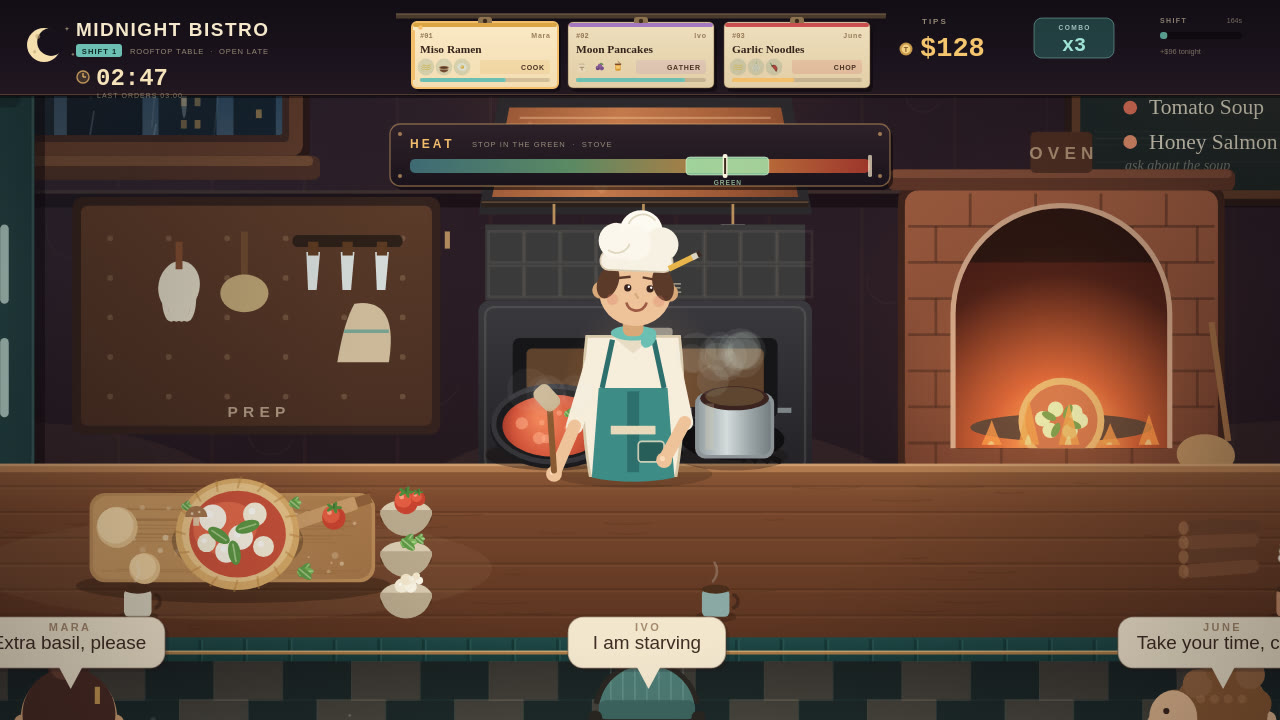
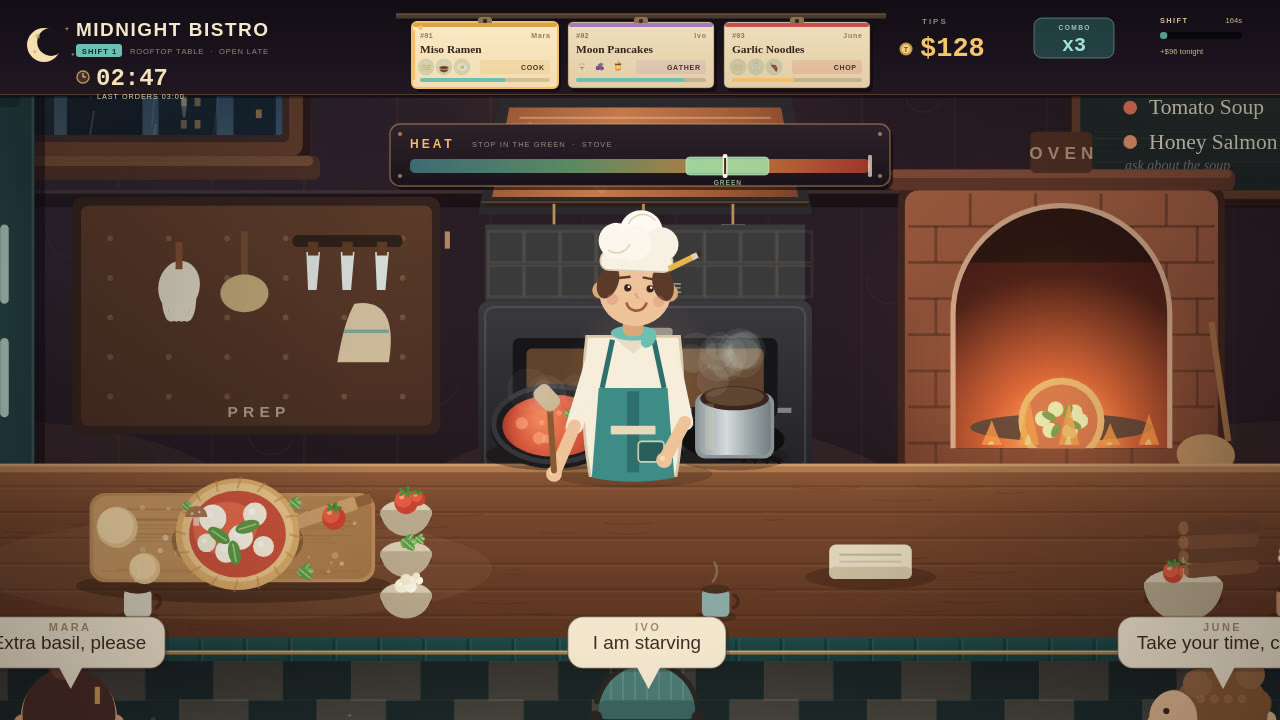
Polish the cover and HUD: garnish pose, lit pass, counter props

diff --git a/game/src/render.js b/game/src/render.js
@@ -1088,6 +1088,40 @@ function drawToppingBowl(ctx, x, y, ingredient) {
   if (ingredient === 'basil') drawIngredient(ctx, ingredient, x + 7, y - 5, 5);
 }
 
+function drawCounterProps(ctx, game) {
+  // a folded service towel and a bowl of tomatoes keep the long counter from reading as dead space
+  ctx.save();
+  ctx.fillStyle = 'rgba(24,13,9,0.25)';
+  ctx.beginPath();
+  ctx.ellipse(762, 517, 38, 7, 0, 0, Math.PI * 2);
+  ctx.fill();
+  ctx.fillStyle = '#ded2b8';
+  rr(ctx, 738, 498, 48, 20, 4);
+  ctx.fill();
+  ctx.fillStyle = '#c6b99c';
+  rr(ctx, 738, 511, 48, 7, 3);
+  ctx.fill();
+  line(ctx, 744, 504, 780, 504, withAlpha('#8f856d', 0.5), 1.2);
+  line(ctx, 744, 508, 780, 508, withAlpha('#8f856d', 0.35), 1);
+
+  ctx.fillStyle = 'rgba(30,16,10,0.28)';
+  ctx.beginPath();
+  ctx.ellipse(944, 530, 23, 6, 0, 0, Math.PI * 2);
+  ctx.fill();
+  ctx.fillStyle = '#d9cbb0';
+  ctx.beginPath();
+  ctx.ellipse(944, 522, 23, 10, 0, 0, Math.PI * 2);
+  ctx.fill();
+  ctx.fillStyle = '#b9a98c';
+  ctx.beginPath();
+  ctx.arc(944, 520, 23, 0, Math.PI);
+  ctx.fill();
+  drawIngredient(ctx, 'tomato', 938, 514, 7);
+  drawIngredient(ctx, 'tomato', 950, 512, 6);
+  drawIngredient(ctx, 'basil', 945, 507, 5);
+  ctx.restore();
+}
+
 function drawStoveTop(ctx, game) {
   const t = game.time;
   // burner grates
@@ -1212,7 +1246,24 @@ function drawPassTop(ctx, game) {
   // plated tickets sit under the heat lamps; the hero bowl fills the middle lamp when the pass is clear
   const plated = game.orders.filter((o) => o && (o.plated || o.step === 'serve'));
   if (plated.length === 0) {
-    drawDish(ctx, 1100, 496, recipeById('ramen'), 1.22, true);
+    ctx.save();
+    ctx.globalCompositeOperation = 'lighter';
+    glow(ctx, 1114, 468, 72, '#ffcf82', 0.16);
+    ctx.restore();
+    drawDish(ctx, 1104, 498, recipeById('ramen'), 1.32, true);
+    // steam curls rising into the lamp light, so the pass reads as a pass
+    ctx.save();
+    ctx.strokeStyle = withAlpha('#ffe6bd', 0.26);
+    ctx.lineWidth = 2;
+    for (let i = 0; i < 3; i++) {
+      const sx = 1086 + i * 16;
+      const t = game.time * 0.9 + i * 1.7;
+      ctx.beginPath();
+      ctx.moveTo(sx, 488);
+      ctx.bezierCurveTo(sx - 5, 476, sx + 5 + Math.sin(t) * 2, 464, sx - 2, 451);
+      ctx.stroke();
+    }
+    ctx.restore();
   } else {
     const first = 1114 - ((plated.length - 1) * 58) / 2;
     plated.forEach((o, i) => {
@@ -1770,6 +1821,7 @@ export function drawWorld(ctx, game) {
   drawPassBack(ctx, game);
   drawDeck(ctx, game);
   drawPrepTop(ctx, game);
+  drawCounterProps(ctx, game);
   drawStoveTop(ctx, game);
   drawOvenTop(ctx, game);
   drawPassTop(ctx, game);

diff --git a/game/src/hud.js b/game/src/hud.js
@@ -50,7 +50,7 @@ function drawClock(ctx, game, x, y) {
   line(ctx, x, y - 5, x + 3, y - 5, '#f3bf6d', 1.2);
   const mins = game.clockMinutes === undefined ? 167 : game.clockMinutes;
   text(ctx, fmtClock(mins), x + 13, y + 3, 24, '#f6e3b9', { font: 'mono', weight: 700 });
-  text(ctx, 'LAST ORDERS 03:00', x + 14, y + 16, 7, withAlpha('#d9c5a3', 0.55), { spacing: 1 });
+  text(ctx, 'LAST ORDERS 03:00', x + 14, y + 17, 7.2, withAlpha('#f0dcb4', 0.95), { spacing: 1 });
 }
 
 export function drawHUD(ctx, game) {
@@ -109,7 +109,7 @@ export function drawHUD(ctx, game) {
   ctx.restore();
   // shift progress
   const pct = clamp(game.shiftTime / SHIFT_SECONDS, 0, 1);
-  text(ctx, 'SHIFT', 1160, 23, 7, withAlpha('#cdbd9f', 0.65), { weight: 700, spacing: 1.4 });
+  text(ctx, 'SHIFT', 1160, 23, 7.4, withAlpha('#e8d4ab', 0.92), { weight: 700, spacing: 1.4 });
   const rush = game.shiftTime >= SHIFT_SECONDS - 30;
   if (rush) {
     ctx.fillStyle = withAlpha('#b3453b', 0.9);
@@ -117,9 +117,9 @@ export function drawHUD(ctx, game) {
     ctx.fill();
     text(ctx, 'RUSH', 1219, 25, 8, '#ffe0b0', { weight: 700, spacing: 2, align: 'center' });
   } else {
-    text(ctx, Math.ceil(SHIFT_SECONDS - game.shiftTime) + 's', 1242, 23, 7, withAlpha('#cdbd9f', 0.55), { align: 'right' });
+    text(ctx, Math.ceil(SHIFT_SECONDS - game.shiftTime) + 's', 1242, 23, 7.6, withAlpha('#e8d4ab', 0.88), { align: 'right' });
   }
-  ctx.fillStyle = withAlpha('#000000', 0.4);
+  ctx.fillStyle = withAlpha('#000000', 0.55);
   rr(ctx, 1160, 32, 82, 7, 3);
   ctx.fill();
   const sg = ctx.createLinearGradient(1160, 0, 1242, 0);
@@ -128,7 +128,7 @@ export function drawHUD(ctx, game) {
   ctx.fillStyle = sg;
   rr(ctx, 1160, 32, Math.max(3, 82 * pct), 7, 3);
   ctx.fill();
-  text(ctx, (game.tipsEarned || 0) > 0 ? `+$${game.tipsEarned} tonight` : 'a quiet night so far', 1160, 54, 7.4, withAlpha('#cdbd9f', 0.55), {});
+  text(ctx, (game.tipsEarned || 0) > 0 ? `+$${game.tipsEarned} tonight` : 'a quiet night so far', 1160, 54, 7.8, withAlpha('#e8d4ab', 0.85), {});
   if (game.muted) text(ctx, 'MUTED', 1242, 54, 7, withAlpha('#d98b7a', 0.8), { weight: 700, align: 'right', spacing: 1 });
 
   if (game.shot) {

diff --git a/game/src/player.js b/game/src/player.js
@@ -253,6 +253,17 @@ export function drawChef(ctx, game) {
       { x: -34, y: -25 },
       { x: 8, y: -28 },
     ];
+  } else if (pose === 'garnish') {
+    // one hand steadies the board, the other pinches basil over the pizza
+    const bob = Math.sin(c.poseT * 2.6) * 1.6;
+    hands = [
+      { x: -36, y: 2 },
+      { x: 6, y: 6 + bob },
+    ];
+    elbows = [
+      { x: -38, y: -26 },
+      { x: 20, y: -24 },
+    ];
   } else if (pose === 'stir') {
     hands = [
       { x: -46, y: 2 },
@@ -314,6 +325,24 @@ export function drawChef(ctx, game) {
   // props in hand
   if (pose === 'chop') {
     drawKnife(ctx, hands[1].x + 2, hands[1].y + 2, -0.55, 1.4);
+  } else if (pose === 'garnish') {
+    // a pinch of basil leaves falling from the fingers onto the pizza
+    const hx = hands[1].x;
+    const hy = hands[1].y;
+    for (let i = 0; i < 3; i++) {
+      const fx = hx - 3 + i * 6 + Math.sin(game.time * 2 + i) * 1.2;
+      const fy = hy + 12 + i * 7;
+      ctx.save();
+      ctx.translate(fx, fy);
+      ctx.rotate(0.5 - i * 0.45);
+      ctx.fillStyle = i % 2 ? '#6ea84f' : '#84bb5c';
+      ctx.beginPath();
+      ctx.ellipse(0, 0, 3.4, 1.7, 0, 0, Math.PI * 2);
+      ctx.fill();
+      ctx.restore();
+    }
+    circle(ctx, hx - 1.5, hy + 1, 1.4, '#84bb5c');
+    circle(ctx, hx + 2, hy + 2.5, 1.2, '#6ea84f');
   } else if (pose === 'stir') {
     drawSpatula(ctx, hands[0].x, hands[0].y - 2, -2.32 + Math.sin(game.time * 6) * 0.05);
   } else if (pose === 'bake') {

diff --git a/game/src/shots.js b/game/src/shots.js
@@ -152,7 +152,7 @@ export function stageShot(game, kind, seed = 7) {
     ticket(game, 1, 'ramen', 'cook', 0.54, { gathered: true, chops: 3 });
     ticket(game, 2, 'salmon', 'gather', 0.88);
     moveChefTo(game.chef, 'prep', 2);
-    setPose(game.chef, 'chop', 99);
+    setPose(game.chef, 'garnish', 99);
     startChop(game, 0);
     if (game.chop) {
       game.chop.chops = 2;
@@ -162,6 +162,7 @@ export function stageShot(game, kind, seed = 7) {
     game.camera = createCamera(640, 400, 1);
     game.tips = 128;
     game.combo = 3;
+    game.shiftTime = 96;
     game.clockMinutes = 167;
     game.flash = 0.12;
     emitSteam(game, 674, 400, 14, 12, { a: 0.2 });
